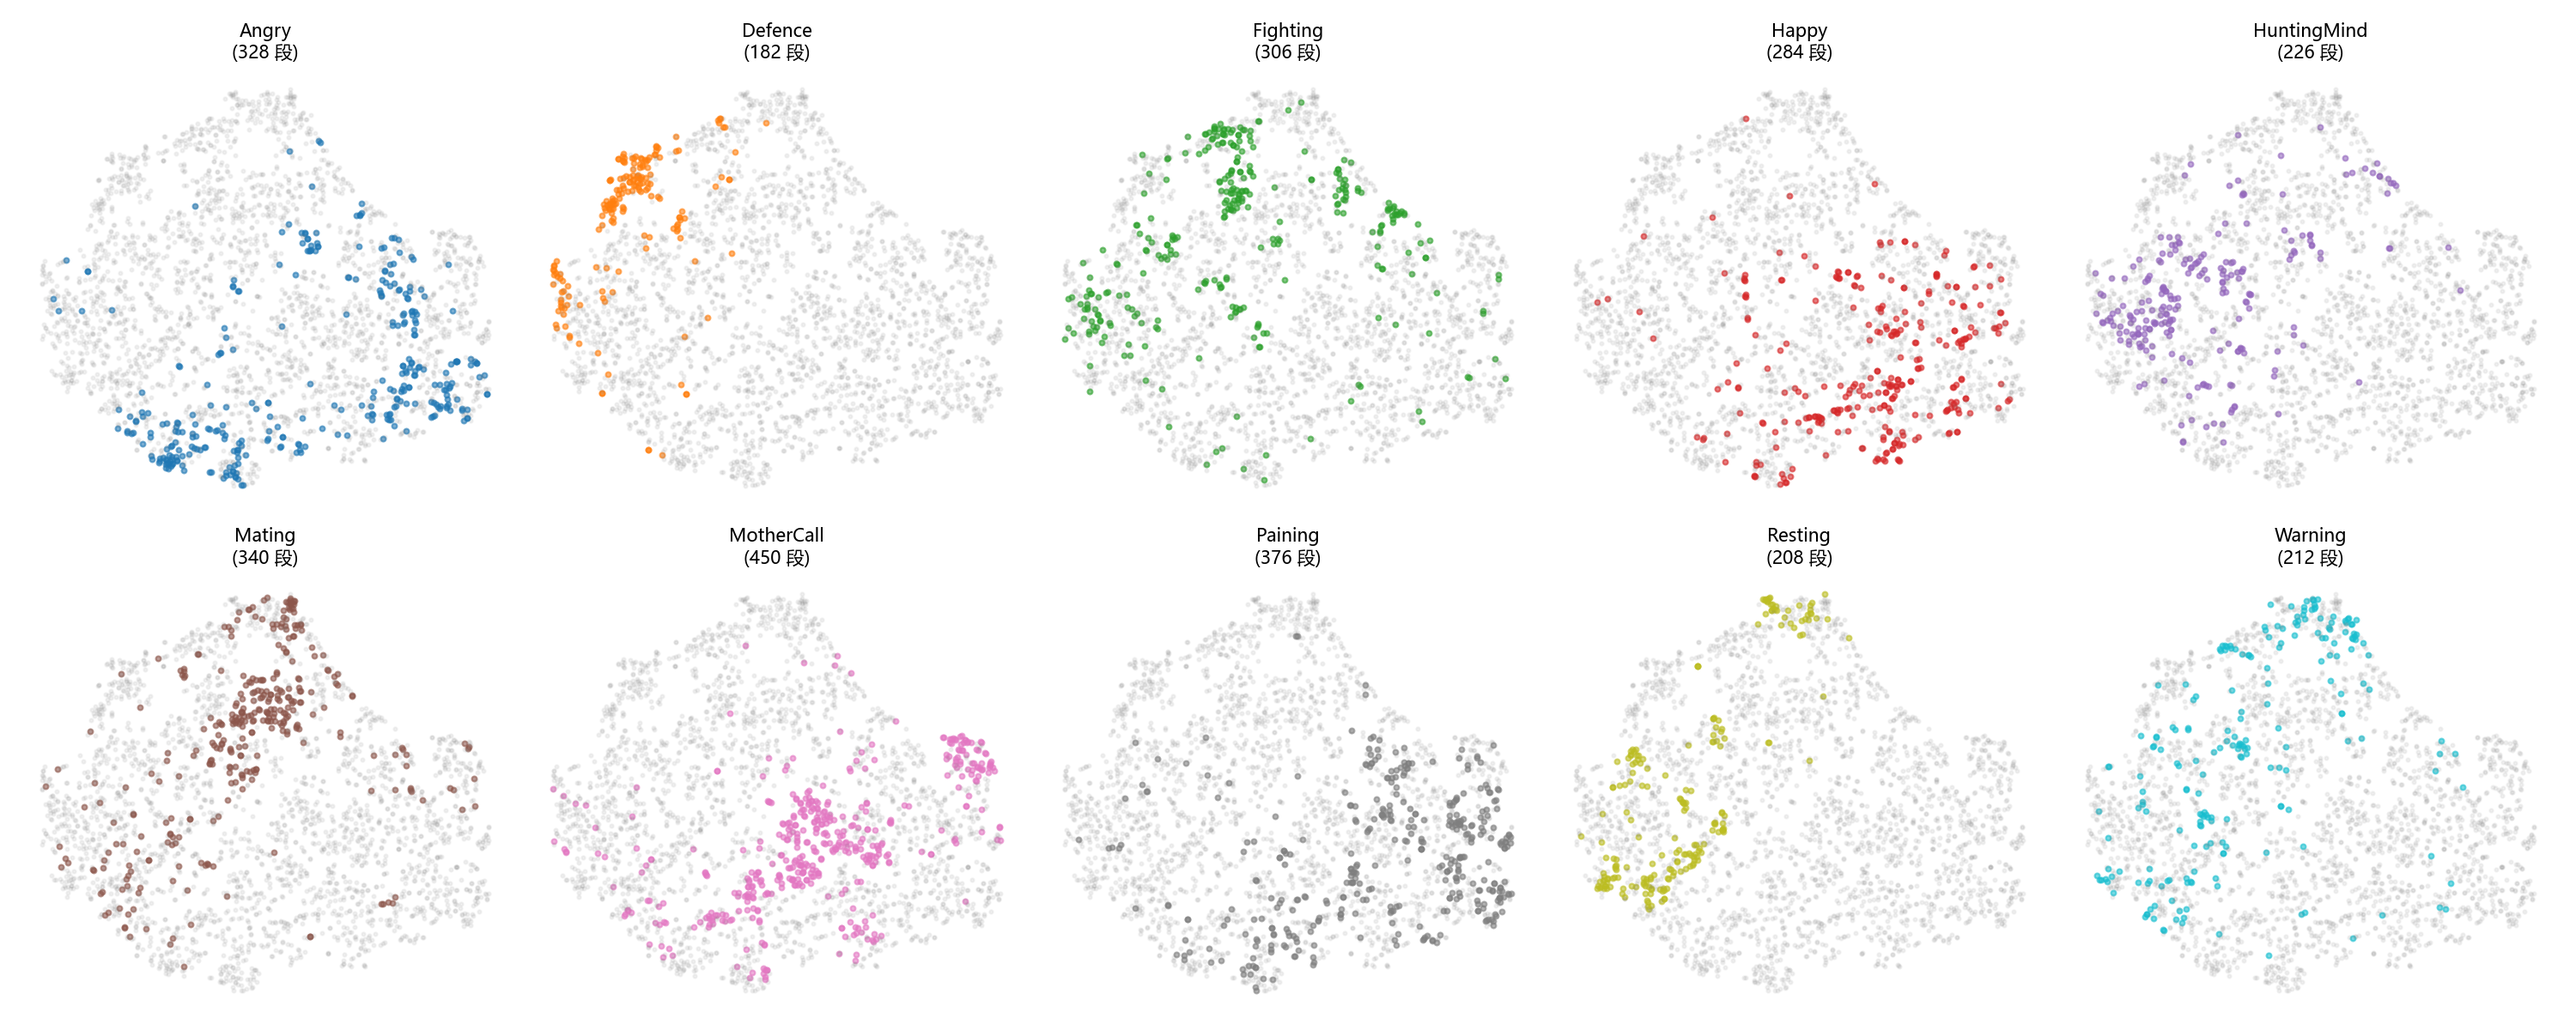
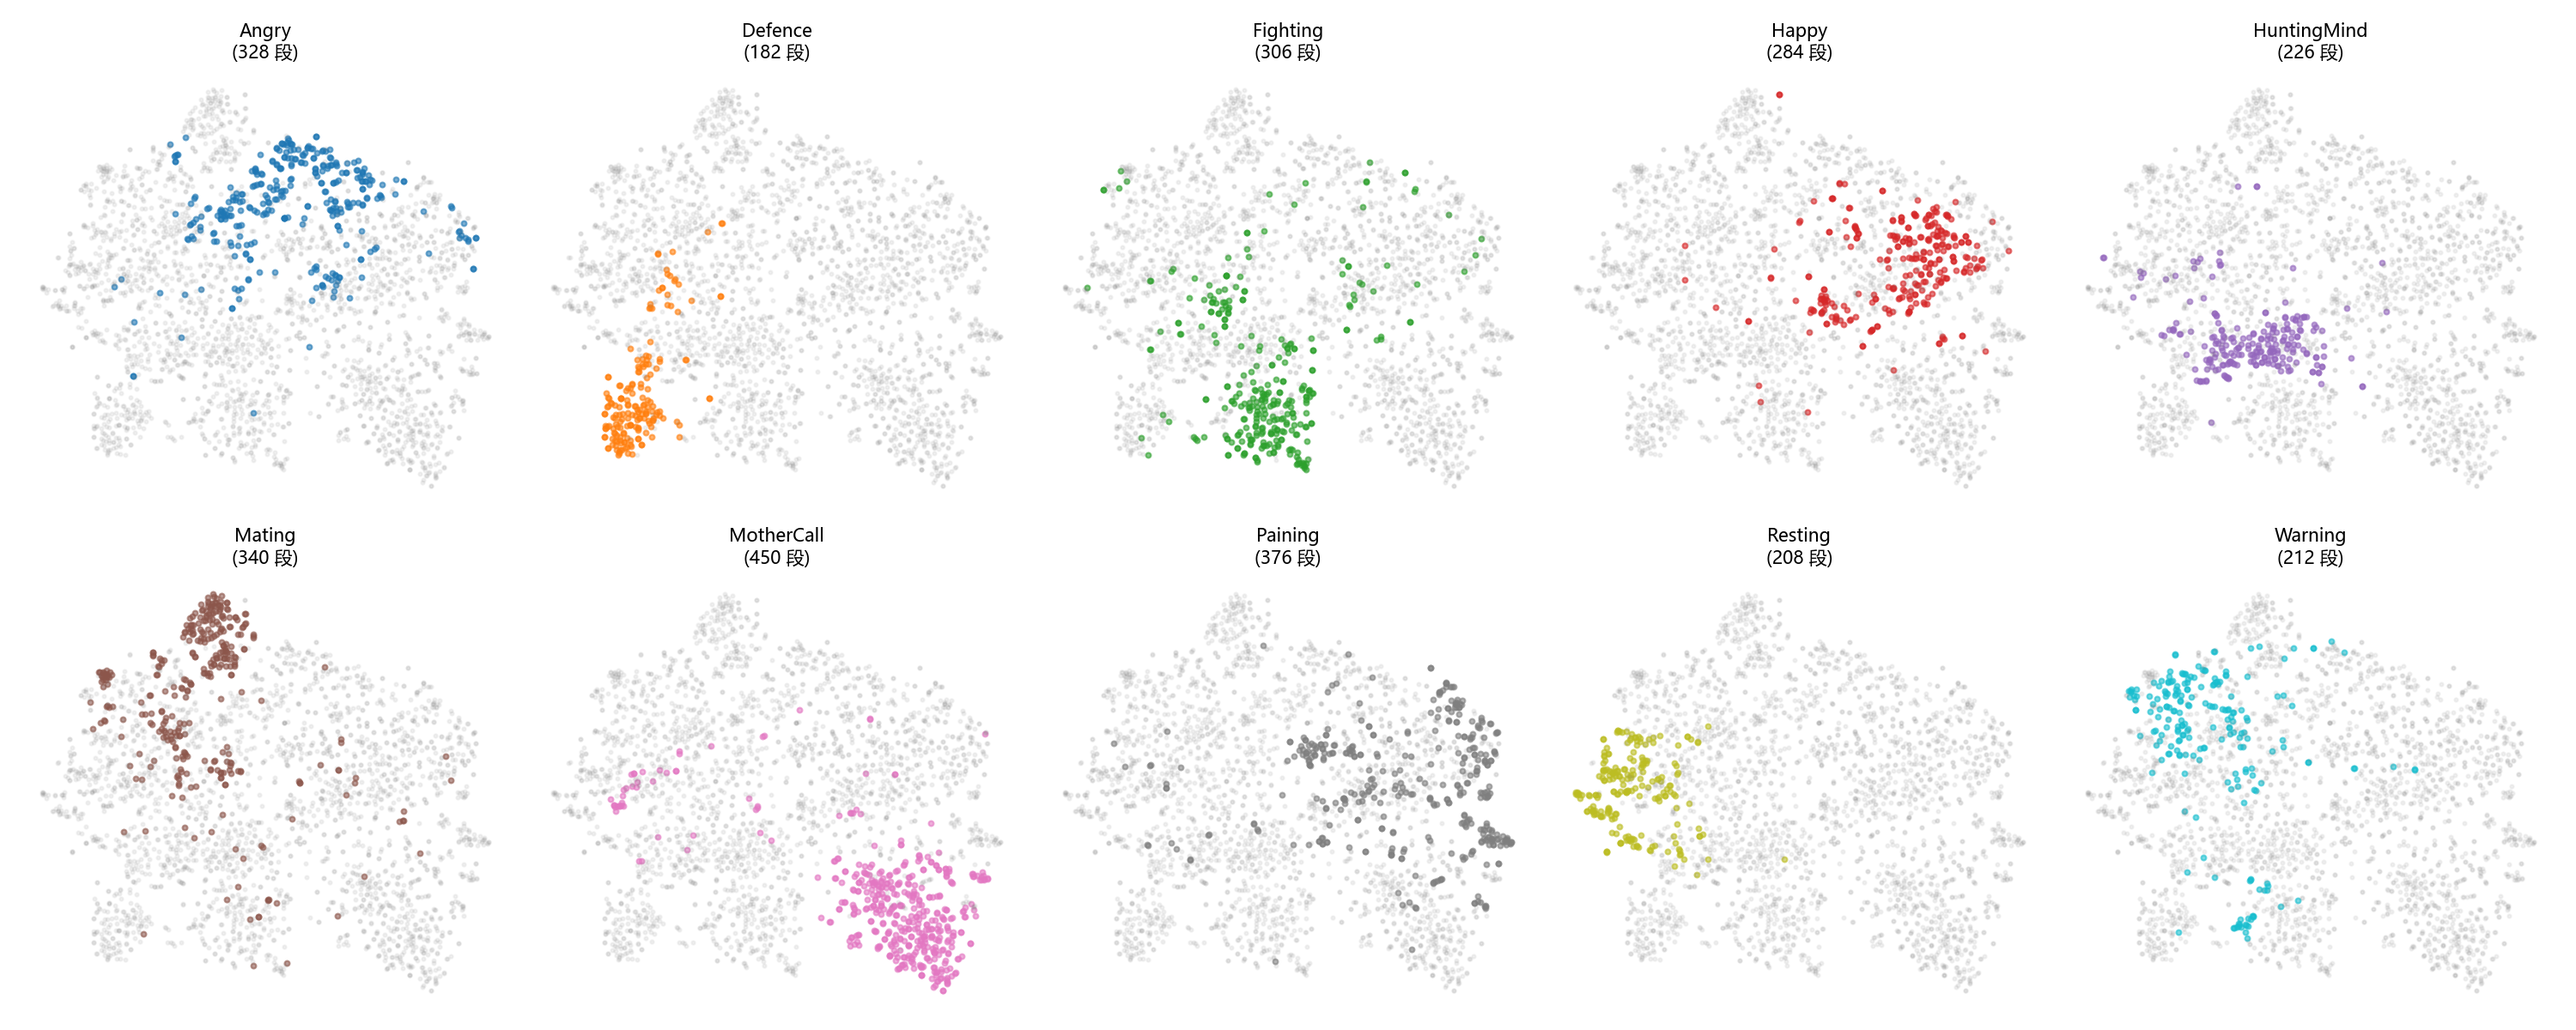
t-SNE 图换成 10 类主模型的

diff --git a/README.md b/README.md
@@ -12,7 +12,7 @@
 
 ![命令行推理](docs/screenshots/cli_infer_pain.png)
 
-验证集 10 类叫声的嵌入空间（t-SNE，各色为一类，分开成簇说明模型区分得开）：
+验证集 10 类叫声的嵌入空间（t-SNE，每格一类：彩色为该类样本，灰色为其余类；簇分得开说明模型区分得开）：
 
 ![t-SNE](docs/screenshots/tsne_10class.png)
 
